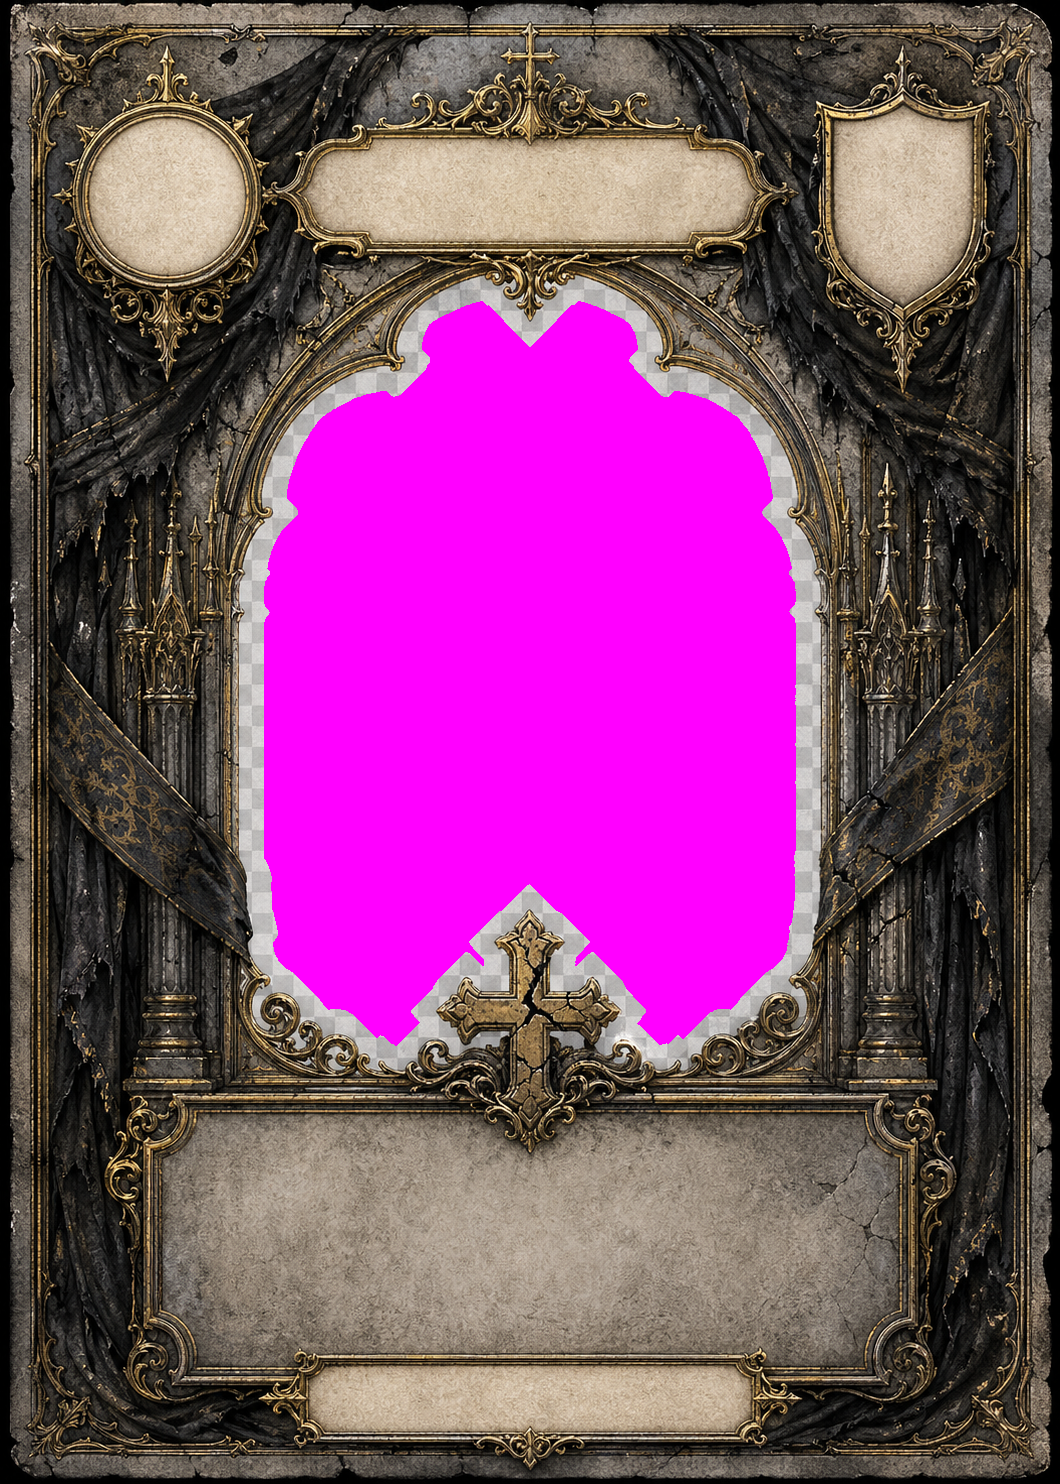
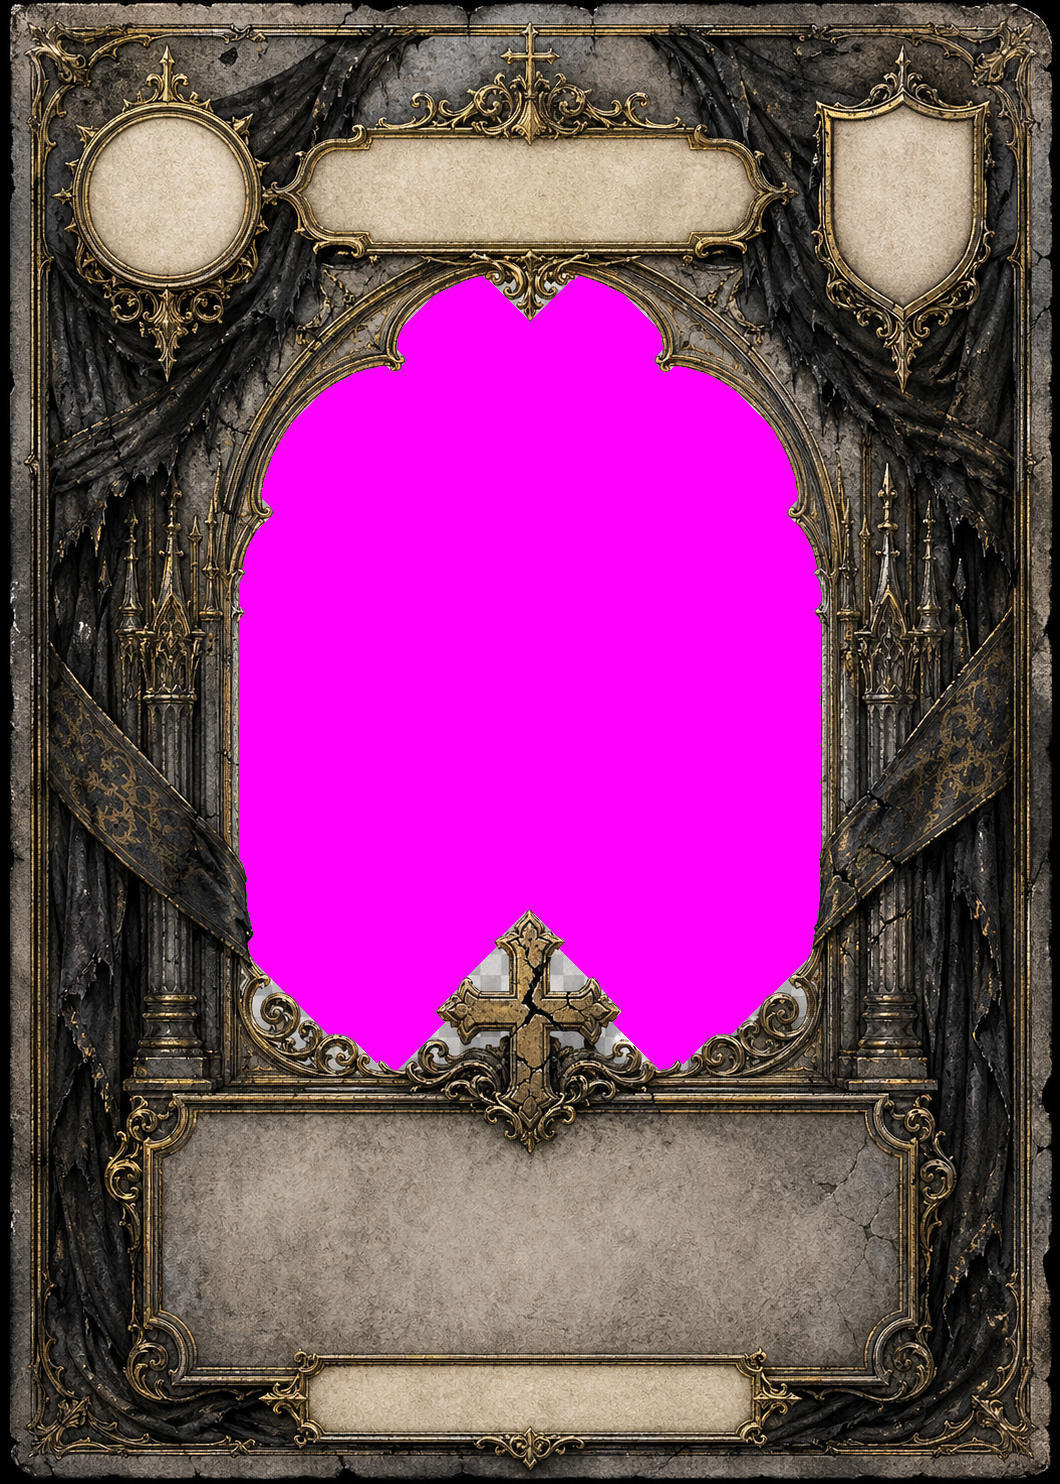
Fermeture morphologique (closing) au lieu de dilation simple
binary_closing(N=30) ferme uniquement les trous internes des ornements

(comme les espaces entre les os du crâne) sans étendre vers l'extérieur

(donc l'arche du Scandale reste transparente malgré les serpents au bord).

https://claude.ai/code/session_011baaC7zEExbd5eSjuzVu4k

Changed region(s): [[0.2179, 0.186, 0.7783, 0.7439], [0.4358, 0.5889, 0.5604, 0.6509]]

diff --git a/tools/extract_arch_alpha.py b/tools/extract_arch_alpha.py
@@ -11,12 +11,12 @@ Usage:
 import sys
 from PIL import Image
 import numpy as np
-from scipy.ndimage import binary_dilation
+from scipy.ndimage import binary_closing
 
 ARCH_CX, ARCH_CY = 0.50, 0.32
 ARCH_RX, ARCH_RY = 0.35, 0.22
 ARCH_BOTTOM = 0.74
-DILATE_ITER = 25
+CLOSING_ITER = 30
 
 
 def process(in_path: str, out_path: str) -> None:
@@ -35,7 +35,7 @@ def process(in_path: str, out_path: str) -> None:
     ornament_strength = np.maximum(np.maximum(s_sat, s_dark), s_gold)
 
     is_ornament = ornament_strength > 0.2
-    ornament_blob = binary_dilation(is_ornament, iterations=DILATE_ITER)
+    ornament_blob = binary_closing(is_ornament, iterations=CLOSING_ITER)
 
     yy, xx = np.indices((h, w))
     fx = xx / float(w)
